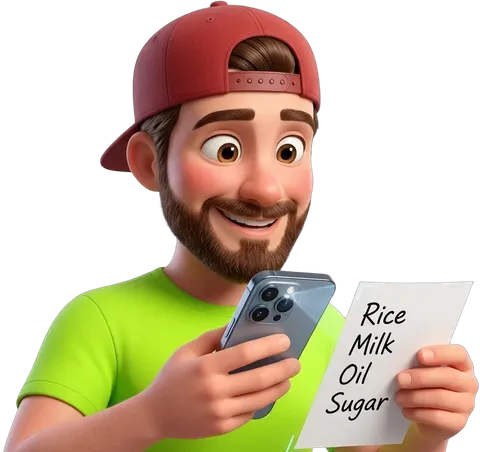
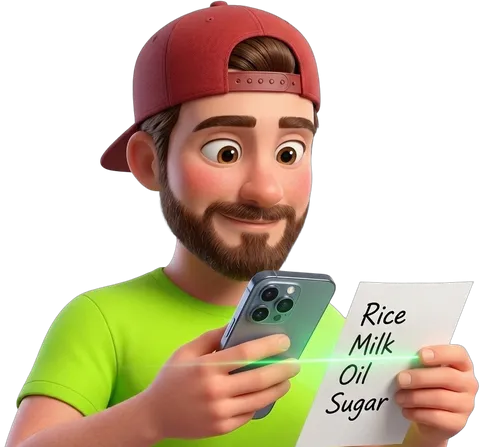
feat(storefront): remove snap-slip text, keep only bouncing arrow over camera, add snap flash on camera button, and update accurate back-camera scan pose

diff --git a/src/components/storefront/CameraMascotPeeker.tsx b/src/components/storefront/CameraMascotPeeker.tsx
@@ -6,17 +6,18 @@ import Image from 'next/image';
 /**
  * CameraMascotPeeker
  * 
- * Compact 3D mascot peeking directly above the search bar's camera button.
- * Scaled down so his face and hands are 100% uncovered by the Account and Cart icons.
+ * Living 3D mascot peeking directly above the search bar's camera button.
+ * Scaled down so his face and hands are 100% clear with zero overlap.
  * 
  * Choreography:
- * 1. Peek: Hands on search bar, smiling at customer. (anim_look.webp)
+ * 1. Peek: Hands on search bar rim, smiling at customer. (anim_look.webp)
  * 2. Wink: Playfully winks right eye 😉 at customer. (anim_wink.webp)
  * 3. Flip & Show: Shows handwritten slip and phone in both hands. (anim_hold.webp)
- * 4. Back-Camera Scan: Aims phone's back camera lenses at the slip (Rice, Milk, Oil, Sugar),
- *    laser line sweeps down receipt, shutter flash fires. (anim_scan.webp)
- * 5. Camera Button Flash & Pointer: Bright flash pulses directly on the search bar camera icon,
- *    with a compact "Snap Slip 👇" badge sitting right on top of the camera button.
+ * 4. Accurate Back-Camera Scan: Phone's back camera lenses aimed directly down at the
+ *    handwritten slip (Rice, Milk, Oil, Sugar), green laser sweeps down receipt,
+ *    camera lens shutter flashes. (anim_scan.webp)
+ * 5. Camera Button Flash & Direct Arrow: Prominent downward arrow pointing straight
+ *    into the search bar camera icon [📷] with camera snap flash effect. No text badge.
  * 6. Smooth Duck: Slides cleanly down behind search bar (strictly clipped, zero lower bleed).
  */
 export default function CameraMascotPeeker() {
@@ -32,6 +33,8 @@ export default function CameraMascotPeeker() {
     let tFlash: NodeJS.Timeout;
     let tFlashEnd: NodeJS.Timeout;
     let tRest: NodeJS.Timeout;
+    let tRestFlash: NodeJS.Timeout;
+    let tRestFlashEnd: NodeJS.Timeout;
     let tDuck: NodeJS.Timeout;
     let tLoop: NodeJS.Timeout;
 
@@ -54,21 +57,25 @@ export default function CameraMascotPeeker() {
         setTextStep(2);
       }, 3200);
 
-      // 4.8s: Actively aims phone back camera at slip to scan
+      // 4.8s: Aims phone back camera at slip to scan
       tScan = setTimeout(() => {
         setPhase('scan');
         setTextStep(3);
       }, 4800);
 
-      // 5.4s: Shutter flash pulse on phone AND search camera button
+      // 5.4s: Shutter flash on phone back camera
       tFlash = setTimeout(() => setCameraFlash(true), 5400);
       tFlashEnd = setTimeout(() => setCameraFlash(false), 5900);
 
-      // 7.0s: Resting pose with pointer arrow & fast pack badge
+      // 7.0s: Resting pose & arrow pointing directly to camera button
       tRest = setTimeout(() => {
         setPhase('rest');
         setTextStep(4);
       }, 7000);
+
+      // 7.2s: Snap flash on the search bar camera button when arrow appears
+      tRestFlash = setTimeout(() => setCameraFlash(true), 7200);
+      tRestFlashEnd = setTimeout(() => setCameraFlash(false), 7700);
 
       // 8.8s: Smooth duck down behind rim
       tDuck = setTimeout(() => setPhase('duck'), 8800);
@@ -87,6 +94,8 @@ export default function CameraMascotPeeker() {
       clearTimeout(tFlash);
       clearTimeout(tFlashEnd);
       clearTimeout(tRest);
+      clearTimeout(tRestFlash);
+      clearTimeout(tRestFlashEnd);
       clearTimeout(tDuck);
       clearTimeout(tLoop);
     };
@@ -223,12 +232,12 @@ export default function CameraMascotPeeker() {
 
               {/* POSE 4 & 5: Scanning with BACK CAMERA pointing at handwritten slip */}
               {(phase === 'scan' || phase === 'rest') && (
-                <div className="relative w-[64px] aspect-[480/452] peeker-active-scan-motion">
+                <div className="relative w-[64px] aspect-[480/447] peeker-active-scan-motion">
                   <Image
                     src="/images/anim_scan.webp"
                     alt="3D mascot scanning grocery slip with phone back camera"
                     width={480}
-                    height={452}
+                    height={447}
                     priority
                     className="w-full h-auto object-contain drop-shadow-sm select-none pointer-events-none"
                   />
@@ -250,36 +259,35 @@ export default function CameraMascotPeeker() {
       </div>
 
       {/* ============================================================== */}
-      {/* 2. SNAP SLIP BADGE & ARROW (KEPT DOWN AT THE TOP OF CAMERA)    */}
+      {/* 2. ONLY ARROW MARK (NO TEXT) BOUNCING DIRECTLY ON TOP OF CAMERA*/}
       {/* Aligned directly over the camera button (right: 8px, width: 40px) */}
       {/* ============================================================== */}
       {(phase === 'scan' || phase === 'rest') && (
         <div
           aria-hidden="true"
-          className="absolute right-2 top-0 pointer-events-none select-none z-40 -translate-y-[15px] w-10 flex flex-col items-center peeker-arrow-bounce"
+          className="absolute right-2 top-0 pointer-events-none select-none z-40 -translate-y-[8px] w-10 flex flex-col items-center peeker-arrow-bounce"
         >
-          {/* Snap Slip Badge sitting down right at the top of camera */}
-          <div className="bg-emerald-600 text-white text-[7.5px] font-black px-1.5 py-0.5 rounded-full shadow-md border border-white flex items-center gap-0.5 whitespace-nowrap">
-            <span>Snap Slip</span>
-          </div>
           {/* Downward pointer arrow pointing straight into the camera lens */}
-          <svg className="w-3.5 h-3.5 text-emerald-600 -mt-0.5 drop-shadow-sm fill-current" viewBox="0 0 20 20">
+          <svg className="w-5 h-5 text-emerald-600 drop-shadow-md fill-current" viewBox="0 0 20 20">
             <path fillRule="evenodd" d="M10 18a8 8 0 100-16 8 8 0 000 16zm-.707-4.293a1 1 0 001.414 0l3-3a1 1 0 00-1.414-1.414L11 10.586V7a1 1 0 10-2 0v3.586L7.707 9.293a1 1 0 00-1.414 1.414l3 3z" clipRule="evenodd" />
           </svg>
         </div>
       )}
 
       {/* ============================================================== */}
-      {/* 3. CAMERA BUTTON FLASH PULSE (Clicks search bar camera button) */}
+      {/* 3. SNAP FLASH ON THE SEARCH BAR CAMERA BUTTON                  */}
+      {/* Triggers bright camera flash effect directly on camera button  */}
       {/* ============================================================== */}
-      {cameraFlash && (
+      {(phase === 'scan' || phase === 'rest') && (
         <div
           aria-hidden="true"
-          className="absolute right-2 top-1/2 -translate-y-1/2 w-10 h-10 pointer-events-none z-40 flex items-center justify-center"
+          className="absolute right-2 top-1/2 -translate-y-1/2 w-10 h-10 pointer-events-none z-35 flex items-center justify-center"
         >
           {/* White camera snap flash flare */}
-          <div className="absolute inset-0 rounded-xl bg-white shadow-[0_0_24px_12px_rgba(255,255,255,0.98)] animate-ping" />
-          {/* Green highlight ring */}
+          {cameraFlash && (
+            <div className="absolute inset-0 rounded-xl bg-white shadow-[0_0_32px_18px_rgba(255,255,255,0.98)] animate-ping" />
+          )}
+          {/* Glowing emerald ring pulse around camera button */}
           <div className="absolute -inset-1 rounded-xl border-2 border-emerald-400 shadow-[0_0_12px_#10b981] animate-pulse" />
         </div>
       )}
@@ -418,16 +426,16 @@ export default function CameraMascotPeeker() {
           }
         }
 
-        /* Camera Pointer Bounce Animation - kept down near the top of camera */
+        /* Camera Arrow Bounce Animation - kept down near the top of camera */
         .peeker-arrow-bounce {
           animation: arrowBounce 1s ease-in-out infinite;
         }
         @keyframes arrowBounce {
           0%, 100% {
-            transform: translateY(-15px);
+            transform: translateY(-8px);
           }
           50% {
-            transform: translateY(-10px);
+            transform: translateY(-3px);
           }
         }
 
